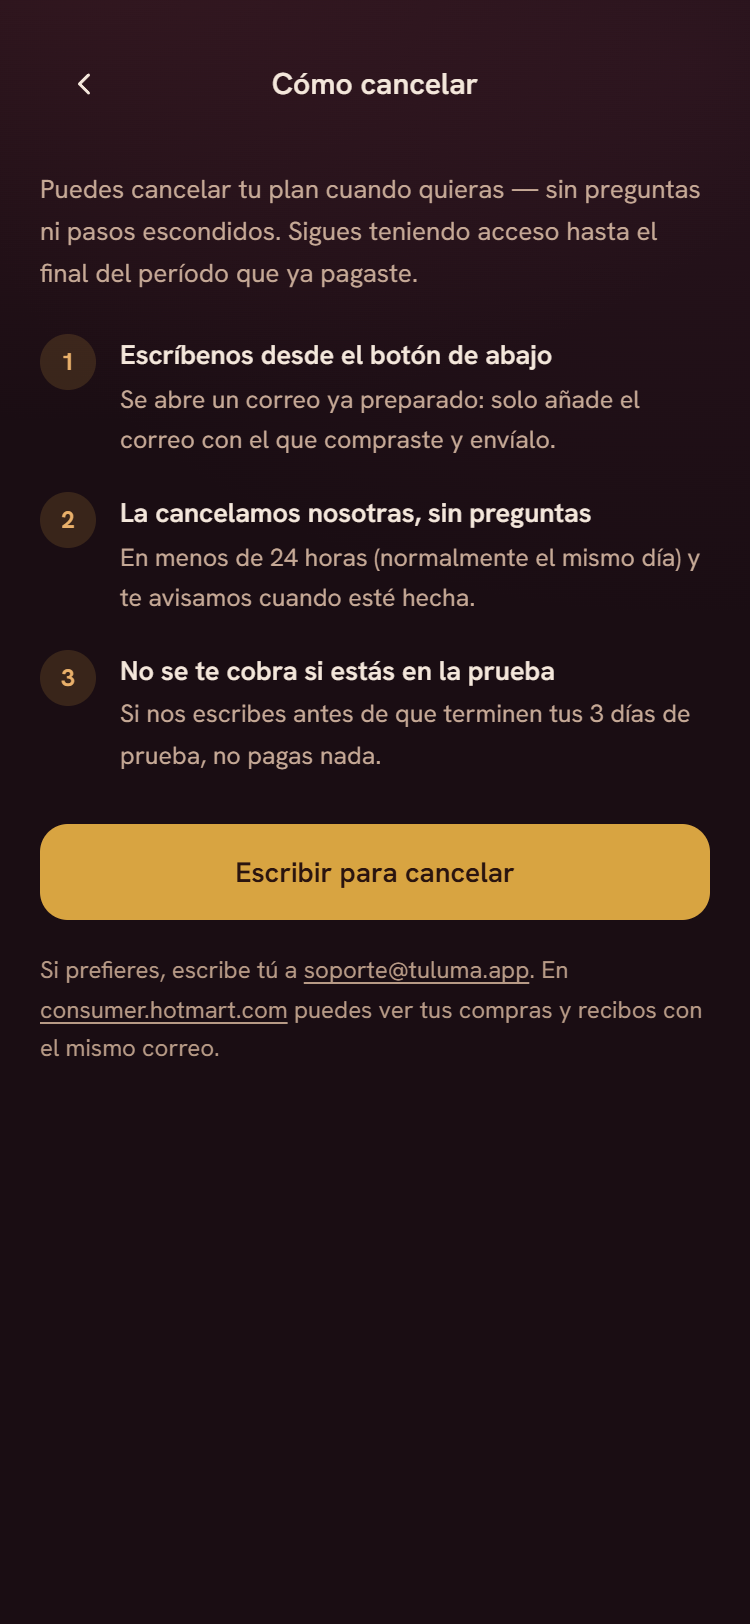
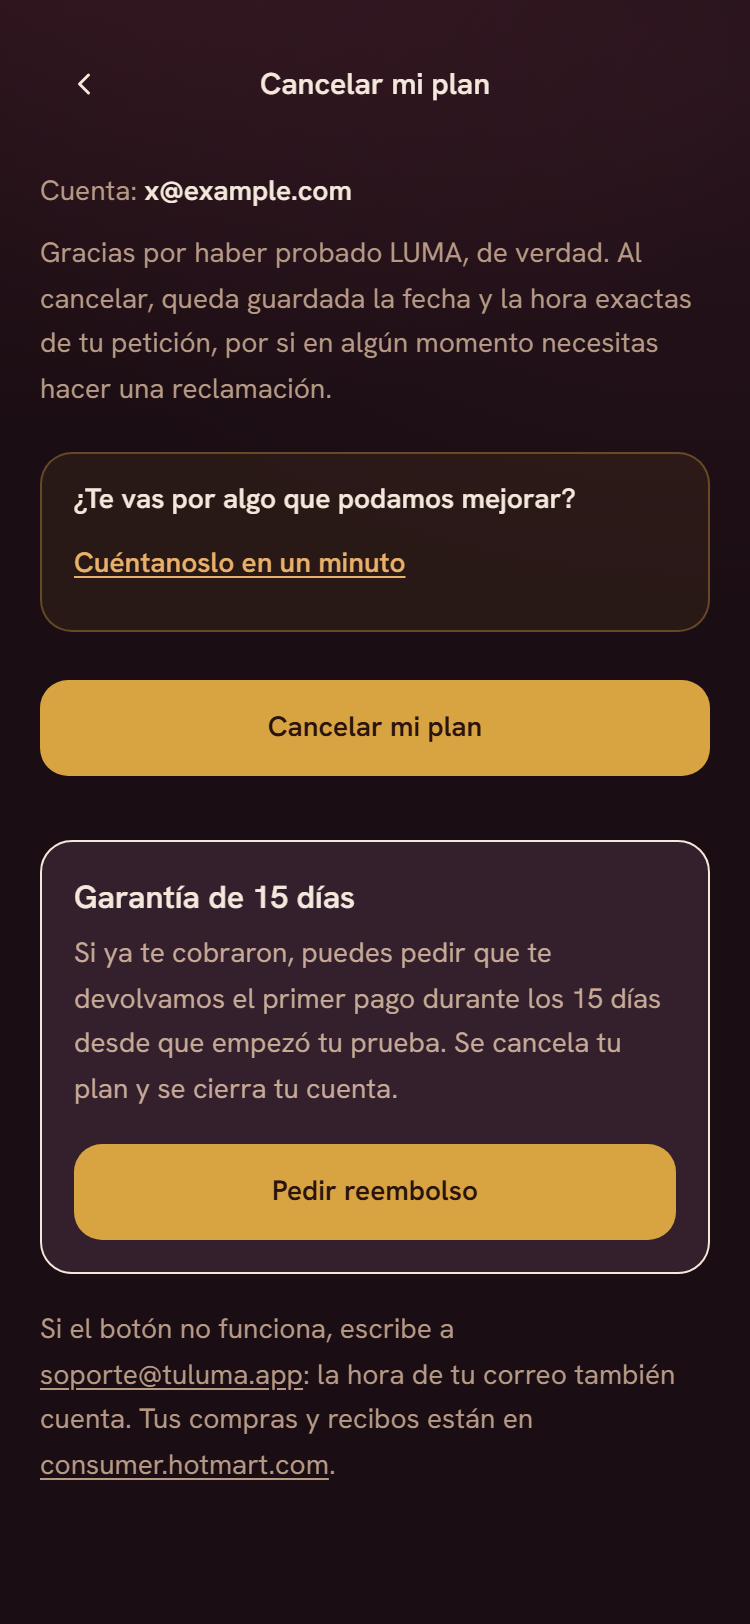
feat(cancelar): mensaje de gracias, pregunta de motivos antes del botón y Pedir reembolso en dorado

diff --git a/app/app/cancelar/page.tsx b/app/app/cancelar/page.tsx
@@ -101,12 +101,16 @@ export default function CancelarPage() {
               Cuenta: <span className="font-semibold text-[var(--text-primary)]">{correo}</span>
             </p>
           )}
-          <p className="mt-3 text-[14px] leading-relaxed text-[var(--text-secondary)]">
-            Puedes cancelar cuando quieras, sin preguntas. No se te cobrará más y sigues usando LUMA hasta que termine tu prueba o el período que ya pagaste.
-          </p>
           <p className="mt-2 text-[14px] leading-relaxed text-[var(--text-tertiary)]">
-            Guardamos la hora exacta de tu petición: si pides cancelar antes del primer cobro y aun así se cobra, te lo devolvemos entero.
+            Gracias por haber probado LUMA, de verdad. Al cancelar, queda guardada la fecha y la hora exactas de tu petición, por si en algún momento necesitas hacer una reclamación.
           </p>
+
+          <div className="mt-5 rounded-[var(--radius-card)] border border-[color-mix(in_oklab,var(--accent)_35%,transparent)] bg-[color-mix(in_oklab,var(--accent)_8%,transparent)] px-4 py-3">
+            <p className="text-sm font-semibold text-[var(--text-primary)]">¿Te vas por algo que podamos mejorar?</p>
+            <a href="/app/sugerencias" className="flex min-h-11 items-center text-sm font-semibold text-[var(--accent-lite)] underline underline-offset-2">
+              Cuéntanoslo en un minuto
+            </a>
+          </div>
 
           {confirmando ? (
             <div className="mt-6 flex flex-col gap-3">

diff --git a/components/app/PedirReembolso.tsx b/components/app/PedirReembolso.tsx
@@ -110,7 +110,7 @@ export function PedirReembolso() {
             <button
               type="button"
               onClick={() => setConfirmando(true)}
-              className="mt-4 flex h-12 w-full items-center justify-center rounded-[var(--radius-button)] border border-[var(--border)] text-[14px] font-semibold text-[var(--text-primary)]"
+              className="mt-4 flex h-12 w-full items-center justify-center rounded-[var(--radius-button)] bg-[var(--accent)] text-[14px] font-semibold text-[var(--on-accent)]"
             >
               Pedir reembolso
             </button>

diff --git a/ESTADO.md b/ESTADO.md
@@ -1441,3 +1441,4 @@ VENTA 17/20 · FUNNEL 14/20 · PRODUCTO 15/20 · CONFIANZA 9/15 · VELOCIDAD 8/1
 - 2026-11-17 (8): prueba real de sugerencias OK (llegó desde prueba6 al panel). Tarjeta del panel: números con lining-nums (el 1 se veía como «I»).
 - 2026-11-17 (9): aviso de sugerencias nuevas dentro de la app (insignia roja «N nuevas» en Más → Panel de administración y en la pestaña Sugerencias del panel; /api/mi-plan devuelve sugerenciasNuevas solo a admin). PENDIENTE opcional: resumen diario por correo (requiere RESEND_API_KEY y CRON_SECRET en Vercel, puestos por la dueña; no construido).
 - 2026-11-17 (10): pantalla Cancelar simplificada por pedido de la dueña: un solo «Cancelar mi plan» con texto corto + bloque «Garantía de 15 días» con «Pedir reembolso»; se quitó la caja repetida «La hora de tu petición» (queda como línea) y la invitación a opinar pasó al resultado tras cancelar/pedir reembolso (enlace a /app/sugerencias). Commit local, sin publicar.
+- 2026-11-17 (11): Cancelar: ajustes finales de la dueña (sin párrafo largo; mensaje de gracias + aviso de que queda guardada la fecha y hora; pregunta «¿Te vas por algo que podamos mejorar?» antes del botón, más pequeña; «Pedir reembolso» en dorado). Publicado.
